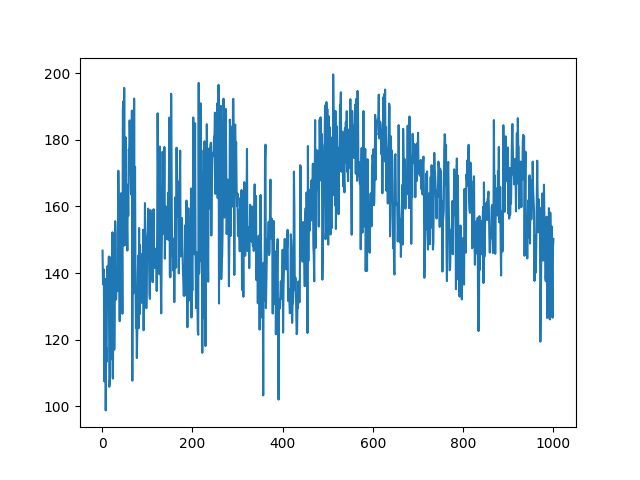
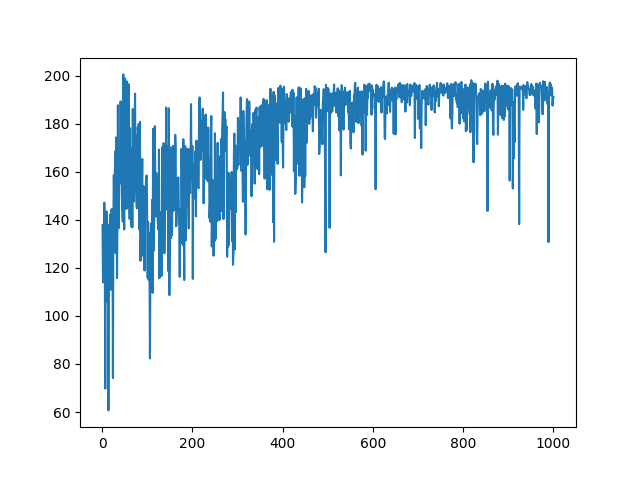
change lr

diff --git a/DQN/nets/MLP.py b/DQN/nets/MLP.py
@@ -8,9 +8,9 @@ class MLP(nn.Module):
     
     def __init__(self, inputs, outputs):
         super(MLP, self).__init__()
-        self.fc1 = nn.Linear(inputs, 32)
-        self.fc2 = nn.Linear(32, 64)
-        self.output = nn.Linear(64, outputs)
+        self.fc1 = nn.Linear(inputs, 128)
+        self.fc2 = nn.Linear(128, 256)
+        self.output = nn.Linear(256, outputs)
 
     # Called with either one element to determine next action, or a batch
     # during optimization. Returns tensor([[left0exp,right0exp]...]).

diff --git a/DQN/trainer/ddqn.py b/DQN/trainer/ddqn.py
@@ -11,7 +11,7 @@ from utils.buffer import ReplayBuffer
 random.seed(10)
 
 BATCH_SIZE = 32
-LR = 0.01
+LR = 0.0001
 EPSILON = 0.95
 GAMMA = 0.9
 TARGET_REPLACE_ITER = 100
